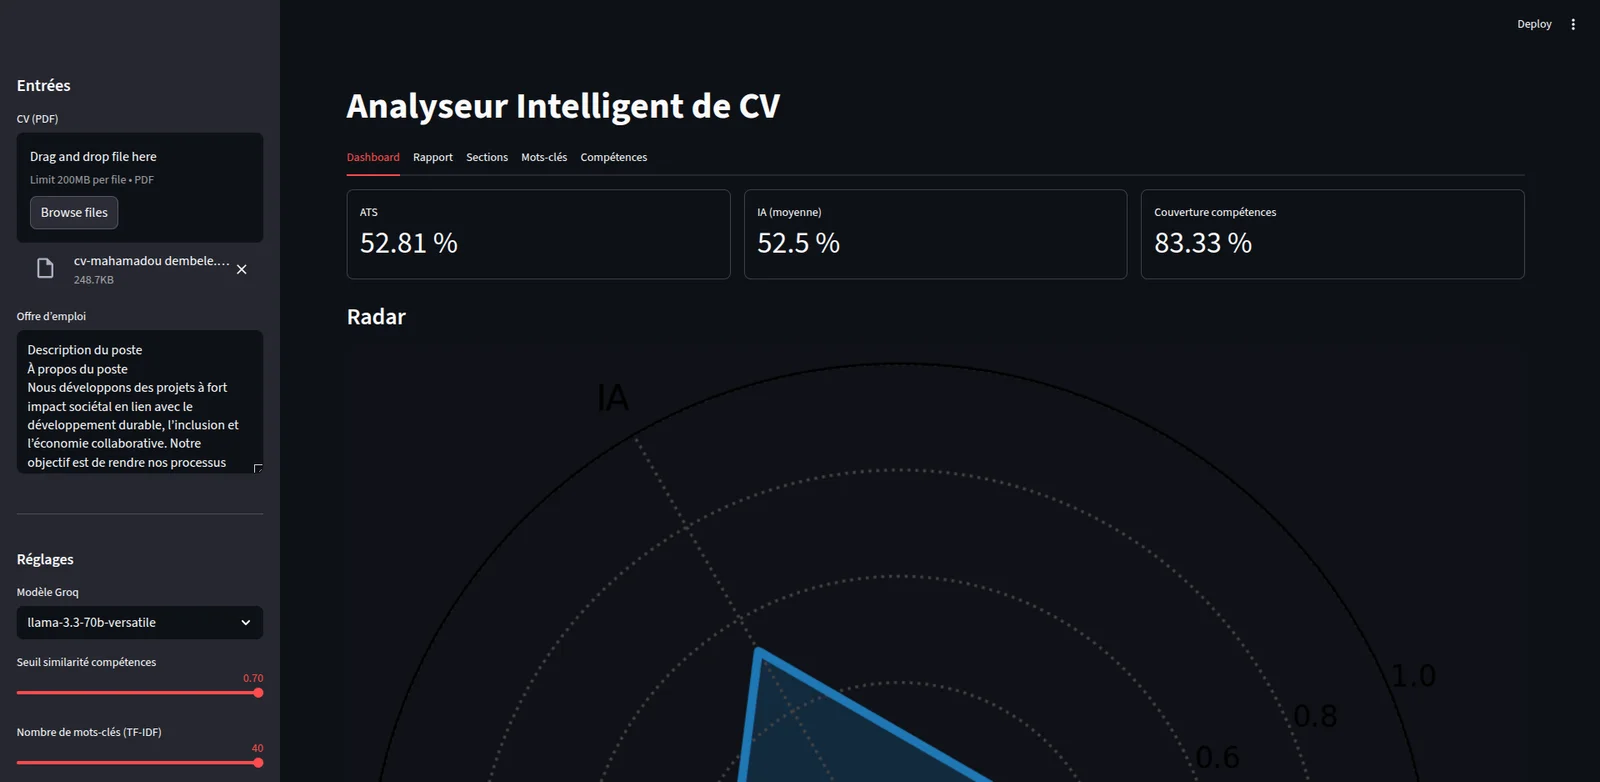
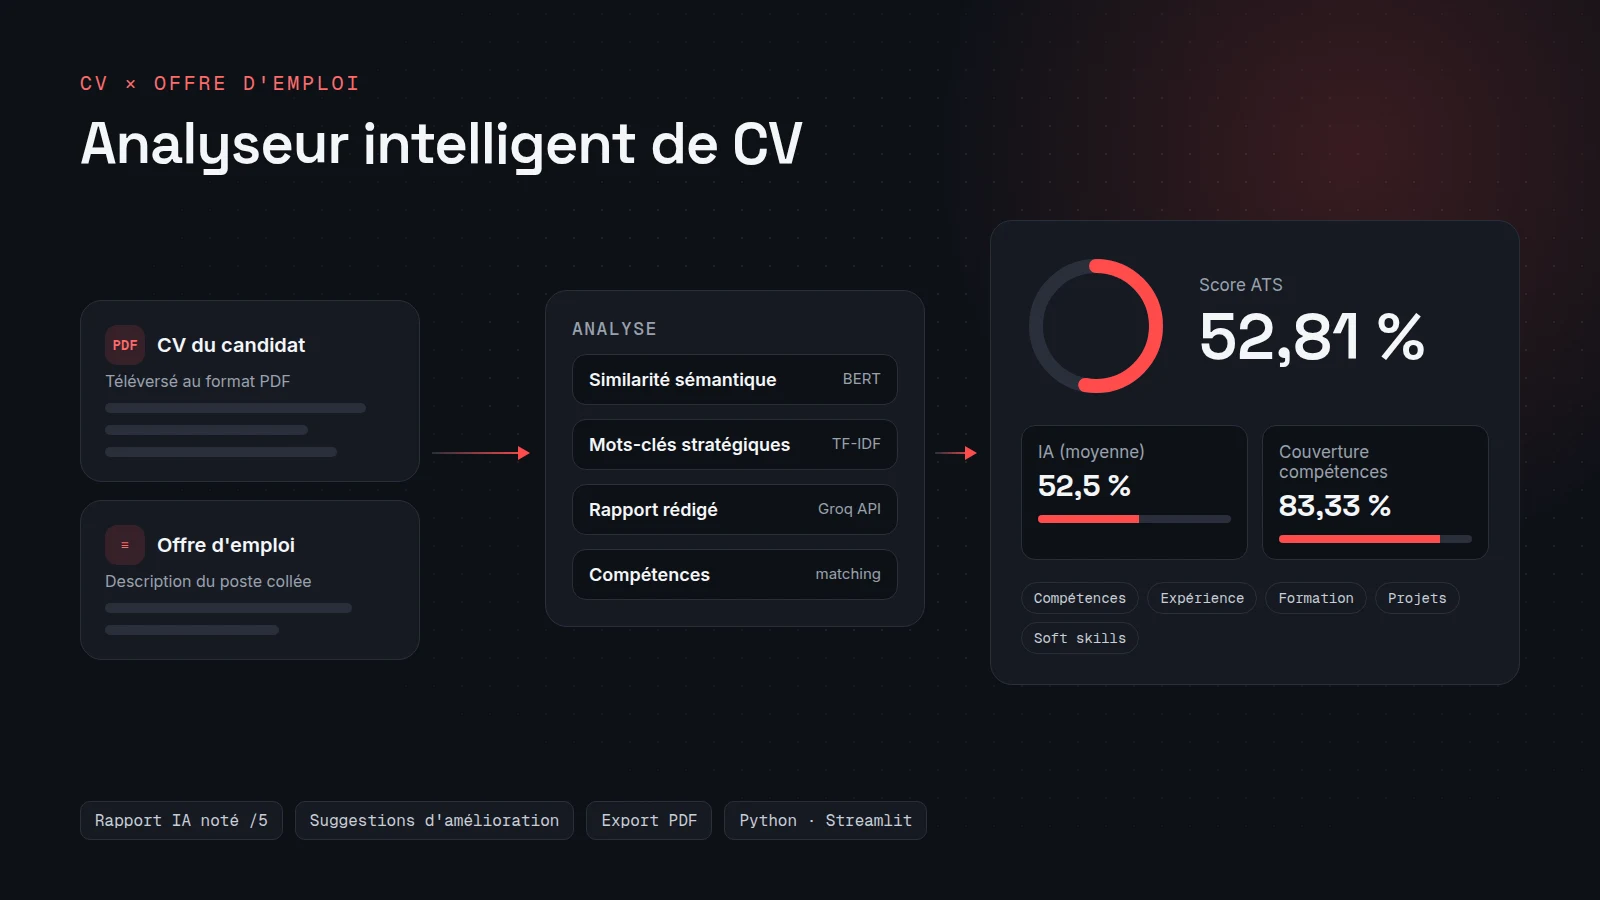
feat: InterUni projet phare, statut Terminé et visuels descriptifs
- InterUni en tête et mis en avant (capture réelle de la page d'accueil FR)
- nouveau statut « Terminé » (BotArena)
- visuels descriptifs pour l'analyseur de CV et BotArena
- recadrage des captures ancré en haut à gauche

Claude-Session: https://claude.ai/code/session_01VZoHRJCFU1xYYNsg8EK2Lw

diff --git a/src/data/projects.ts b/src/data/projects.ts
@@ -8,17 +8,29 @@ const GITHUB = "https://github.com/mamadouwhile";
  */
 export const projects: Project[] = [
   {
+    slug: "interuni",
+    name: "InterUni",
+    tagline: "Moins de temps dans les démarches administratives, plus de temps pour ses études.",
+    description:
+      "Plateforme qui aide les étudiants à gérer leurs démarches (logement, aides financières, santé, échéances) avec des checklists guidées, des documents privés et des rappels intelligents. Monorepo Turborepo : application web Next.js 14, application mobile Expo, API NestJS + Fastify + Prisma sur PostgreSQL, types et schémas Zod partagés. Espaces étudiant, établissement et super-admin, offres Free et Premium, interface FR/EN. Bêta ouverte aux étudiants.",
+    status: "en-developpement",
+    stack: ["Next.js", "Expo", "NestJS", "Prisma", "PostgreSQL", "Turborepo", "Zod"],
+    // Dépôt privé : pas de lien GitHub public. TODO: ajouter liveUrl quand le site est en ligne.
+    repos: [],
+    screenshot: "/images/projects/interuni-screenshot.webp",
+    featured: true,
+  },
+  {
     slug: "2dk-it",
     name: "2DK IT",
-    tagline: "Une plateforme web pensée, développée et mise en production de bout en bout.",
+    tagline: "Un site vitrine pensé, développé et mis en production de bout en bout.",
     description:
-      "Projet personnel abouti : une plateforme web développée en TypeScript avec Next.js et déployée en production sur Vercel. C'est mon projet le plus complet, et il est accessible publiquement.",
+      "Projet personnel abouti : une plateforme web développée en TypeScript avec Next.js et déployée en production sur Vercel. Il est accessible publiquement.",
     status: "production",
     stack: ["TypeScript", "Next.js", "Vercel"],
     repos: [{ label: "2dk-it", href: `${GITHUB}/2dk-it` }],
     liveUrl: "https://2dk-it.vercel.app",
     screenshot: "/images/projects/2dk-it-screenshot.webp",
-    featured: true,
   },
   {
     slug: "colis",
@@ -58,25 +70,12 @@ export const projects: Project[] = [
     screenshot: "/images/projects/westafine-screenshot.webp",
   },
   {
-    slug: "interuni",
-    name: "Interuni",
-    tagline: "Un produit construit par itérations courtes, testé et corrigé à chaque étape.",
-    description:
-      "Projet TypeScript en développement actif, avec de nombreuses itérations récentes.",
-    status: "en-developpement",
-    stack: ["TypeScript"],
-    // TODO: ajouter l'URL du dépôt GitHub d'Interuni.
-    repos: [],
-    // TODO: fournir une capture (public/images/projects/interuni-screenshot.webp).
-    screenshot: "/images/projects/interuni-screenshot.webp",
-  },
-  {
     slug: "botarena",
     name: "BotArena",
     tagline: "Déposer un bot, le compiler en sandbox et l'affronter en match ou en tournoi.",
     description:
       "Plateforme web universitaire de gestion de bots : dépôt et compilation isolée dans des conteneurs Docker, matchs, tournois round-robin avec classements, et supervision admin. Authentification JWT avec trois rôles (étudiant, relecteur, admin), frontend React/TypeScript, API FastAPI avec workers, et moteur de jeu en C++.",
-    status: "exploration",
+    status: "termine",
     stack: ["React", "TypeScript", "FastAPI", "SQLAlchemy", "C++", "Docker"],
     repos: [{ label: "BotArena", href: `${GITHUB}/BotArena` }],
     screenshot: "/images/projects/botarena-screenshot.webp",

diff --git a/src/app/projects/page.tsx b/src/app/projects/page.tsx
@@ -7,7 +7,7 @@ import { pageMetadata } from "@/lib/metadata";
 
 export const metadata: Metadata = pageMetadata({
   title: "Projets",
-  description: `${projects.length} projets réels, dont 2DK IT en production : accroche, stack, statut et liens GitHub de chaque réalisation.`,
+  description: `${projects.length} projets réels, dont InterUni (plateforme étudiante web, mobile et API) : accroche, stack, statut et liens de chaque réalisation.`,
   path: "/projects",
 });
 

diff --git a/src/components/home/ProjectsCard.tsx b/src/components/home/ProjectsCard.tsx
@@ -18,6 +18,7 @@ export function ProjectsCard({ className }: { className?: string }) {
                 "size-2 shrink-0 rounded-full",
                 project.status === "production" && "bg-success",
                 project.status === "en-developpement" && "bg-accent",
+                project.status === "termine" && "bg-muted",
                 project.status === "exploration" && "border border-muted",
               )}
             />

diff --git a/src/components/projects/ProjectVisual.tsx b/src/components/projects/ProjectVisual.tsx
@@ -44,7 +44,7 @@ export function ProjectVisual({
           fill
           sizes={sizes}
           priority={priority}
-          className="object-cover object-top transition-transform duration-500 group-hover:scale-[1.02]"
+          className="object-cover object-left-top transition-transform duration-500 group-hover:scale-[1.02]"
         />
       </div>
     );

diff --git a/src/types/content.ts b/src/types/content.ts
@@ -23,7 +23,7 @@ export type SiteConfig = {
   socials: SocialLink[];
 };
 
-export type ProjectStatus = "production" | "en-developpement" | "exploration";
+export type ProjectStatus = "production" | "en-developpement" | "termine" | "exploration";
 
 export type ProjectLink = {
   label: string;

diff --git a/src/lib/project-meta.ts b/src/lib/project-meta.ts
@@ -3,5 +3,6 @@ import type { ProjectStatus } from "@/types/content";
 export const statusLabels: Record<ProjectStatus, string> = {
   production: "Production",
   "en-developpement": "En développement",
+  termine: "Terminé",
   exploration: "Projet d'exploration",
 };

diff --git a/src/components/projects/ProjectStatusBadge.tsx b/src/components/projects/ProjectStatusBadge.tsx
@@ -5,6 +5,7 @@ import type { ProjectStatus } from "@/types/content";
 const dotStyles: Record<ProjectStatus, string> = {
   production: "bg-success",
   "en-developpement": "bg-accent",
+  termine: "bg-muted",
   exploration: "border border-muted",
 };
 

diff --git a/README.md b/README.md
@@ -17,7 +17,7 @@ production._
 
 ## Points clés
 
-- **Contenu réel uniquement** : 7 projets, stack, parcours et services viennent de `src/data/` ;
+- **Contenu réel uniquement** : 6 projets, stack, parcours et services viennent de `src/data/` ;
   toute information manquante est marquée `TODO` dans les données, jamais inventée.
 - **Accueil « tableau de bord »** : toute la page d'accueil tient sur un écran, en cartes bento
   cliquables menant chacune à une partie du site (profil, projets, parcours, stack, services,
@@ -72,7 +72,7 @@ src/
 └── types/                  Types du contenu
 public/
 ├── og-image.png            Image Open Graph 1200×630
-├── images/projects/        Captures des projets (<slug>-screenshot.png)
+├── images/projects/        Captures des projets (<slug>-screenshot.webp)
 └── documents/              CV
 ```
 
